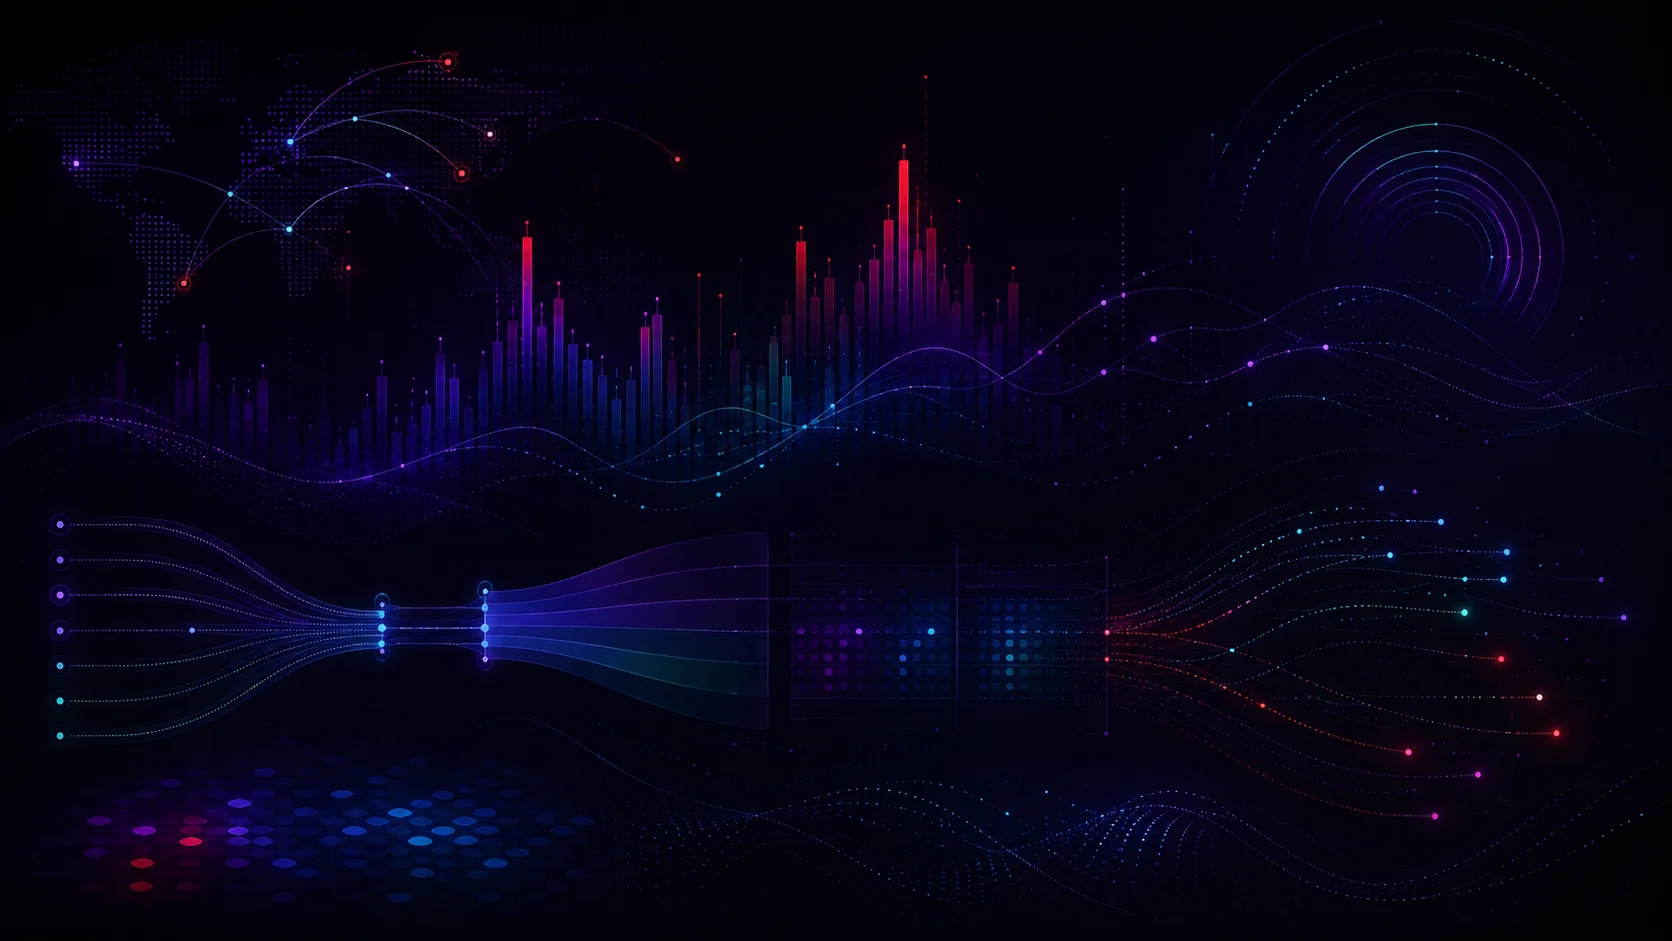
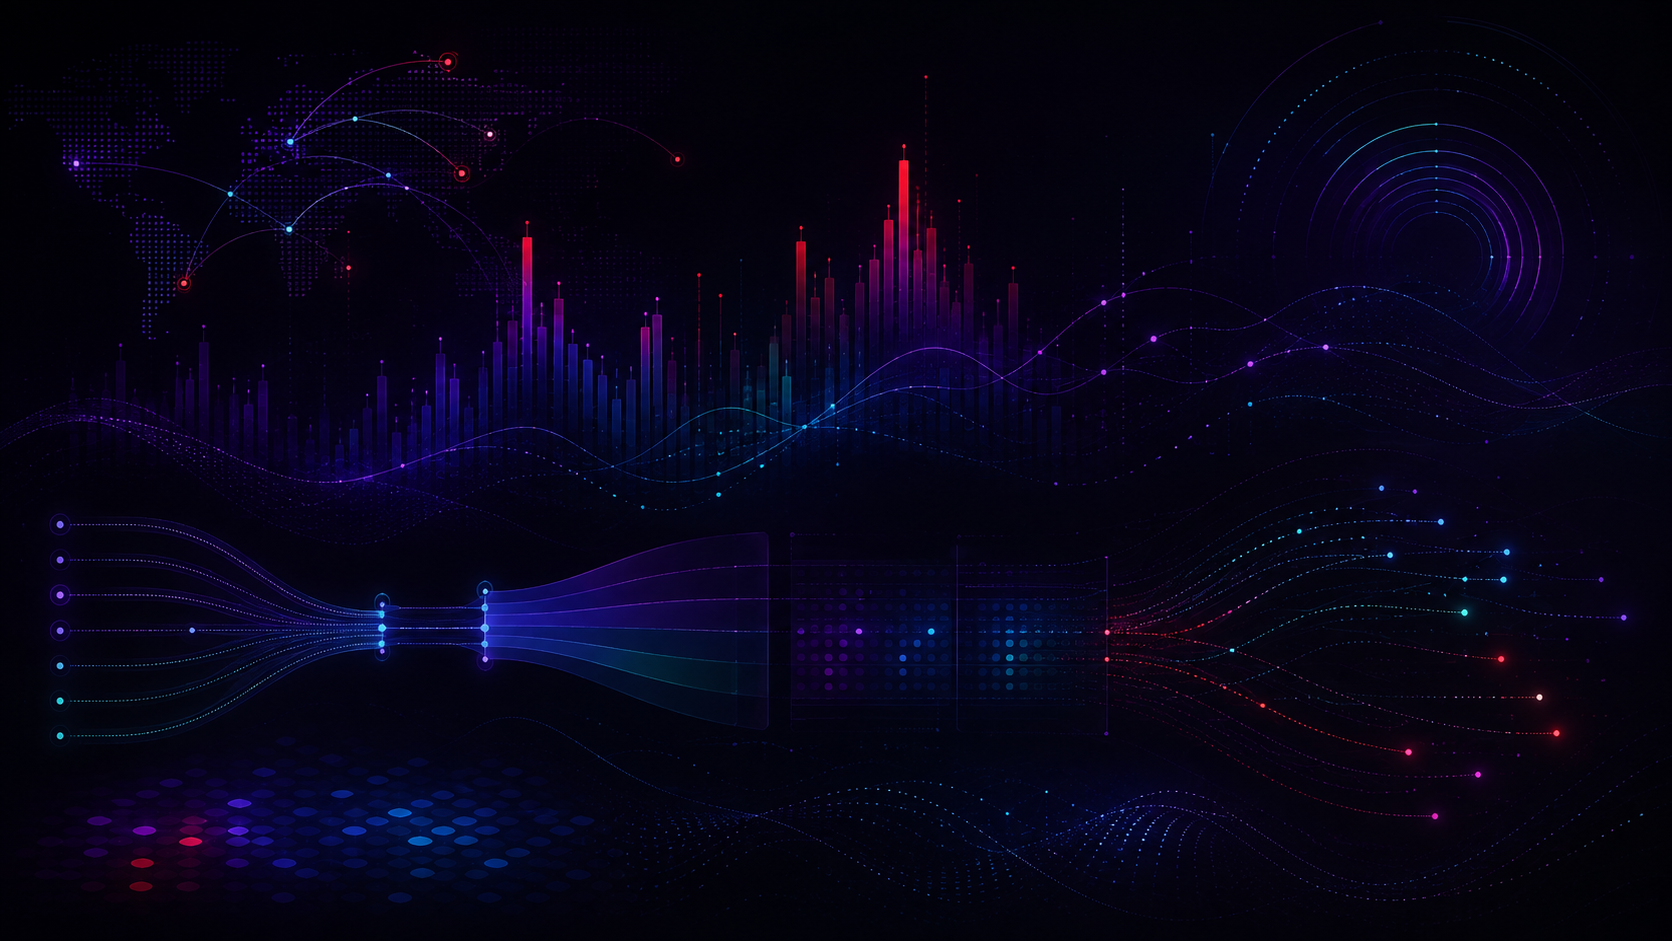
Preserve ambient background quality

Changed region(s): [[0.5287, 0.2157, 0.5598, 0.2465], [0.1555, 0.1233, 0.1866, 0.1541], [0.0311, 0.1541, 0.0622, 0.1849]]

diff --git a/app/ambient-background.css b/app/ambient-background.css
@@ -21,7 +21,11 @@ body::before {
   z-index: -2;
   inset: 0;
   pointer-events: none;
-  background: #030309 url("/verdict-background.webp") center center / cover no-repeat;
+  background-color: #030309;
+  background-image: url("/verdict-background.webp");
+  background-position: center center;
+  background-repeat: no-repeat;
+  background-size: min(100vw, 1672px) auto;
 }
 
 body::after {
